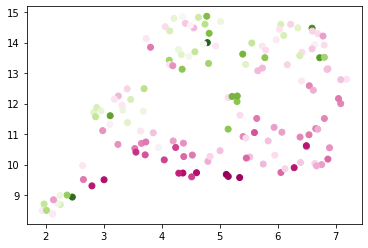
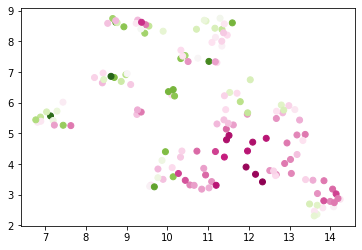
Added a plot

diff --git a/README.md b/README.md
@@ -456,7 +456,7 @@ plot_correlation(data['EORtot'], data['OS (mesi)'])
 
 
 Let's use dimensionality reduction to see if we can find some interesting patterns in the data. This condenses the numerical information of each patient into 2 dimensions so that we can plot it.
-We use the first 10 columns as input and the last 2 as color. Thus green means longer than average and red means shorter than average survival time.
+We use the first 10 columns as input so that the model has no info about the last 2 columns which we want to predict.
 
 
 ```python
@@ -464,7 +464,25 @@ We use the first 10 columns as input and the last 2 as color. Thus green means l
 import umap
 reducer = umap.UMAP(random_state=42)
 embedding = reducer.fit_transform(data.iloc[:, :-2])
+#plot embedding
+plt.figure(figsize=(10,10))
+plt.scatter(embedding[:, 0], embedding[:, 1], marker = 'x')
 ```
+
+
+
+
+    <matplotlib.collections.PathCollection at 0x15420487ac8>
+
+
+
+
+    
+![png](notebook_files/notebook_13_1.png)
+    
+
+
+We can then use the last 2 columns as labels and plot the results to see if we can find any patterns.
 
 
 ```python
@@ -483,7 +501,7 @@ plt.show()
 
 
     
-![png](notebook_files/notebook_14_0.png)
+![png](notebook_files/notebook_15_0.png)
     
 
 
@@ -511,13 +529,13 @@ plt.scatter(mapper.embedding_[:, 0], mapper.embedding_[:, 1], c=labels, cmap='Pi
 
 
 
-    <matplotlib.collections.PathCollection at 0x1dd8f57eec8>
+    <matplotlib.collections.PathCollection at 0x154200d8f08>
 
 
 
 
     
-![png](notebook_files/notebook_17_1.png)
+![png](notebook_files/notebook_18_1.png)
     
 
 
@@ -572,7 +590,7 @@ for i in range(5):
 
 
     
-![png](notebook_files/notebook_20_0.png)
+![png](notebook_files/notebook_21_0.png)
     
 
 
@@ -703,13 +721,13 @@ model.train_model(train_loader, test_loader, epochs=600, lr=0.001, PLOT_INTERVAL
 # torch.save(model.state_dict(), 'model.pth')
 ```
 
-    Epoch: 599, Train Loss: 0.2457
-    Epoch: 599, Test Loss: 1.0275
+    Epoch: 599, Train Loss: 0.2592
+    Epoch: 599, Test Loss: 1.1609
     
 
 
     
-![png](notebook_files/notebook_31_1.png)
+![png](notebook_files/notebook_32_1.png)
     
 
 
